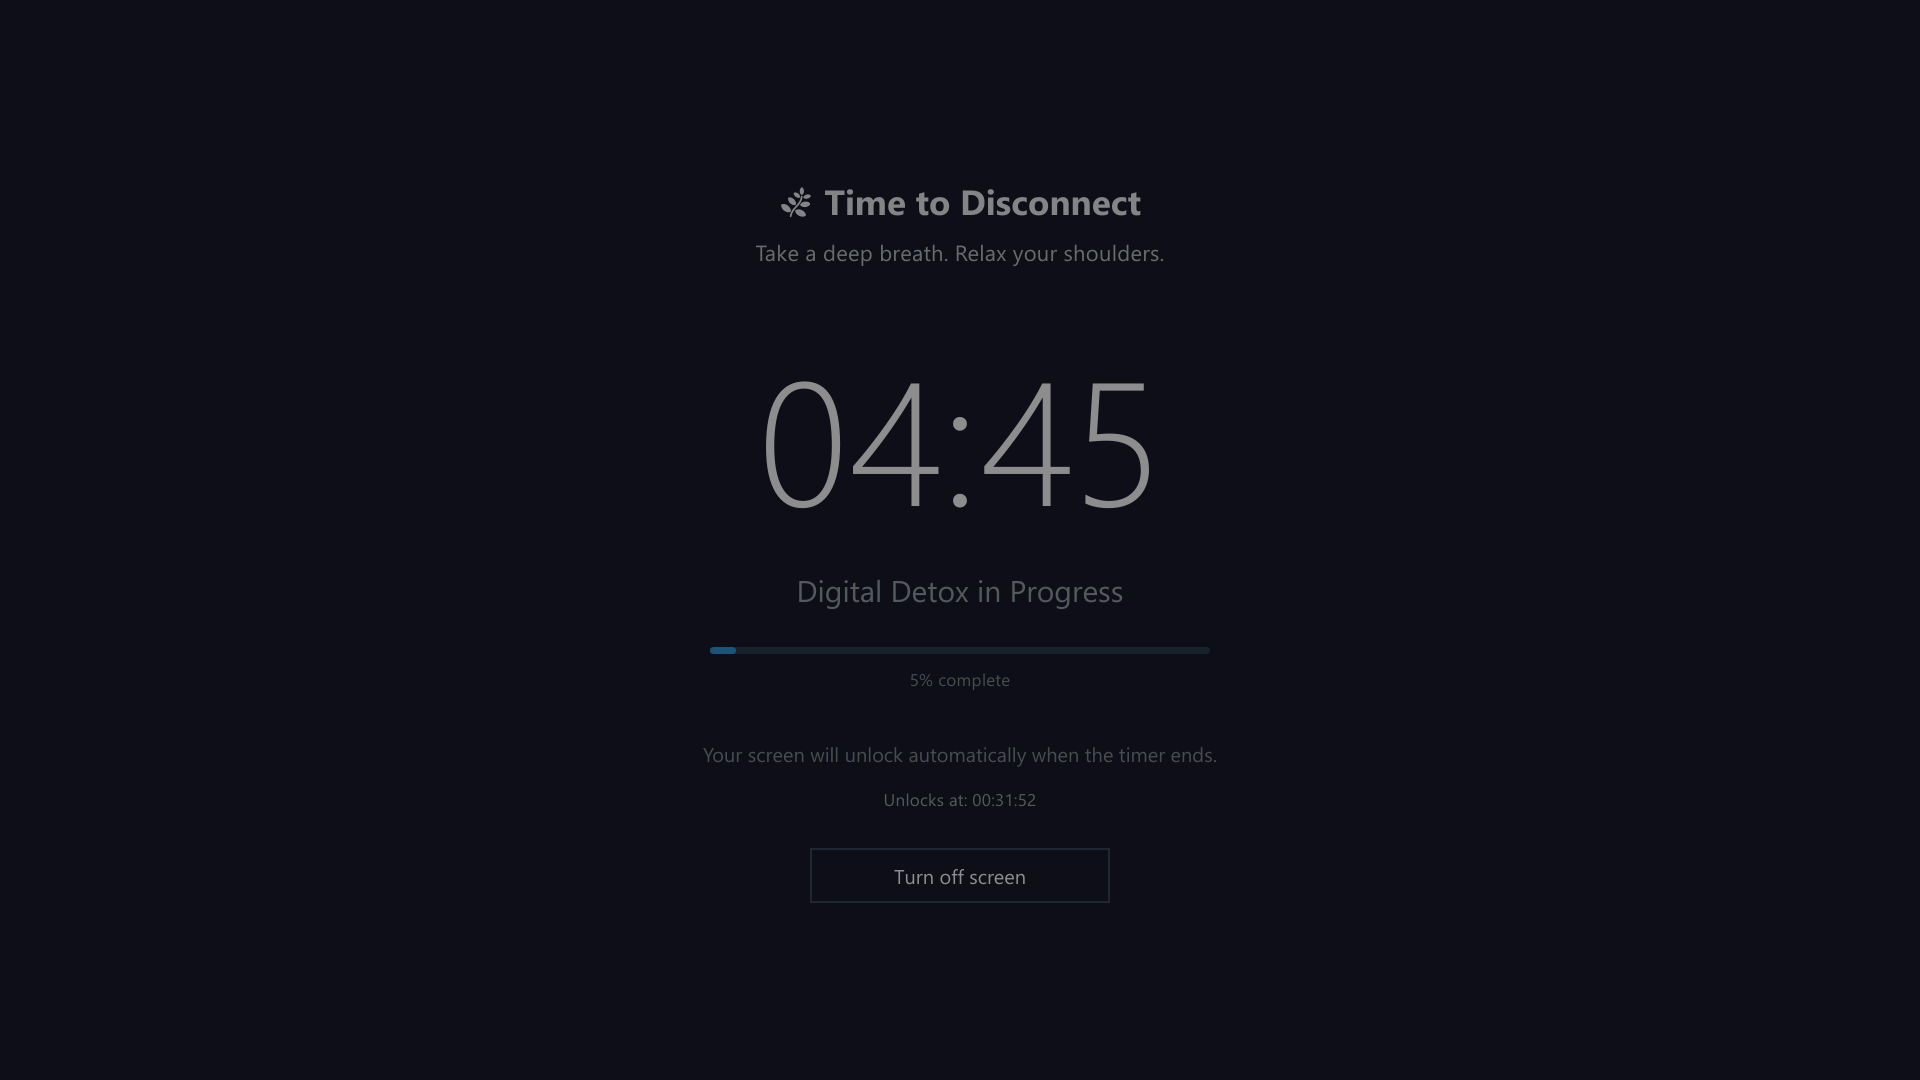
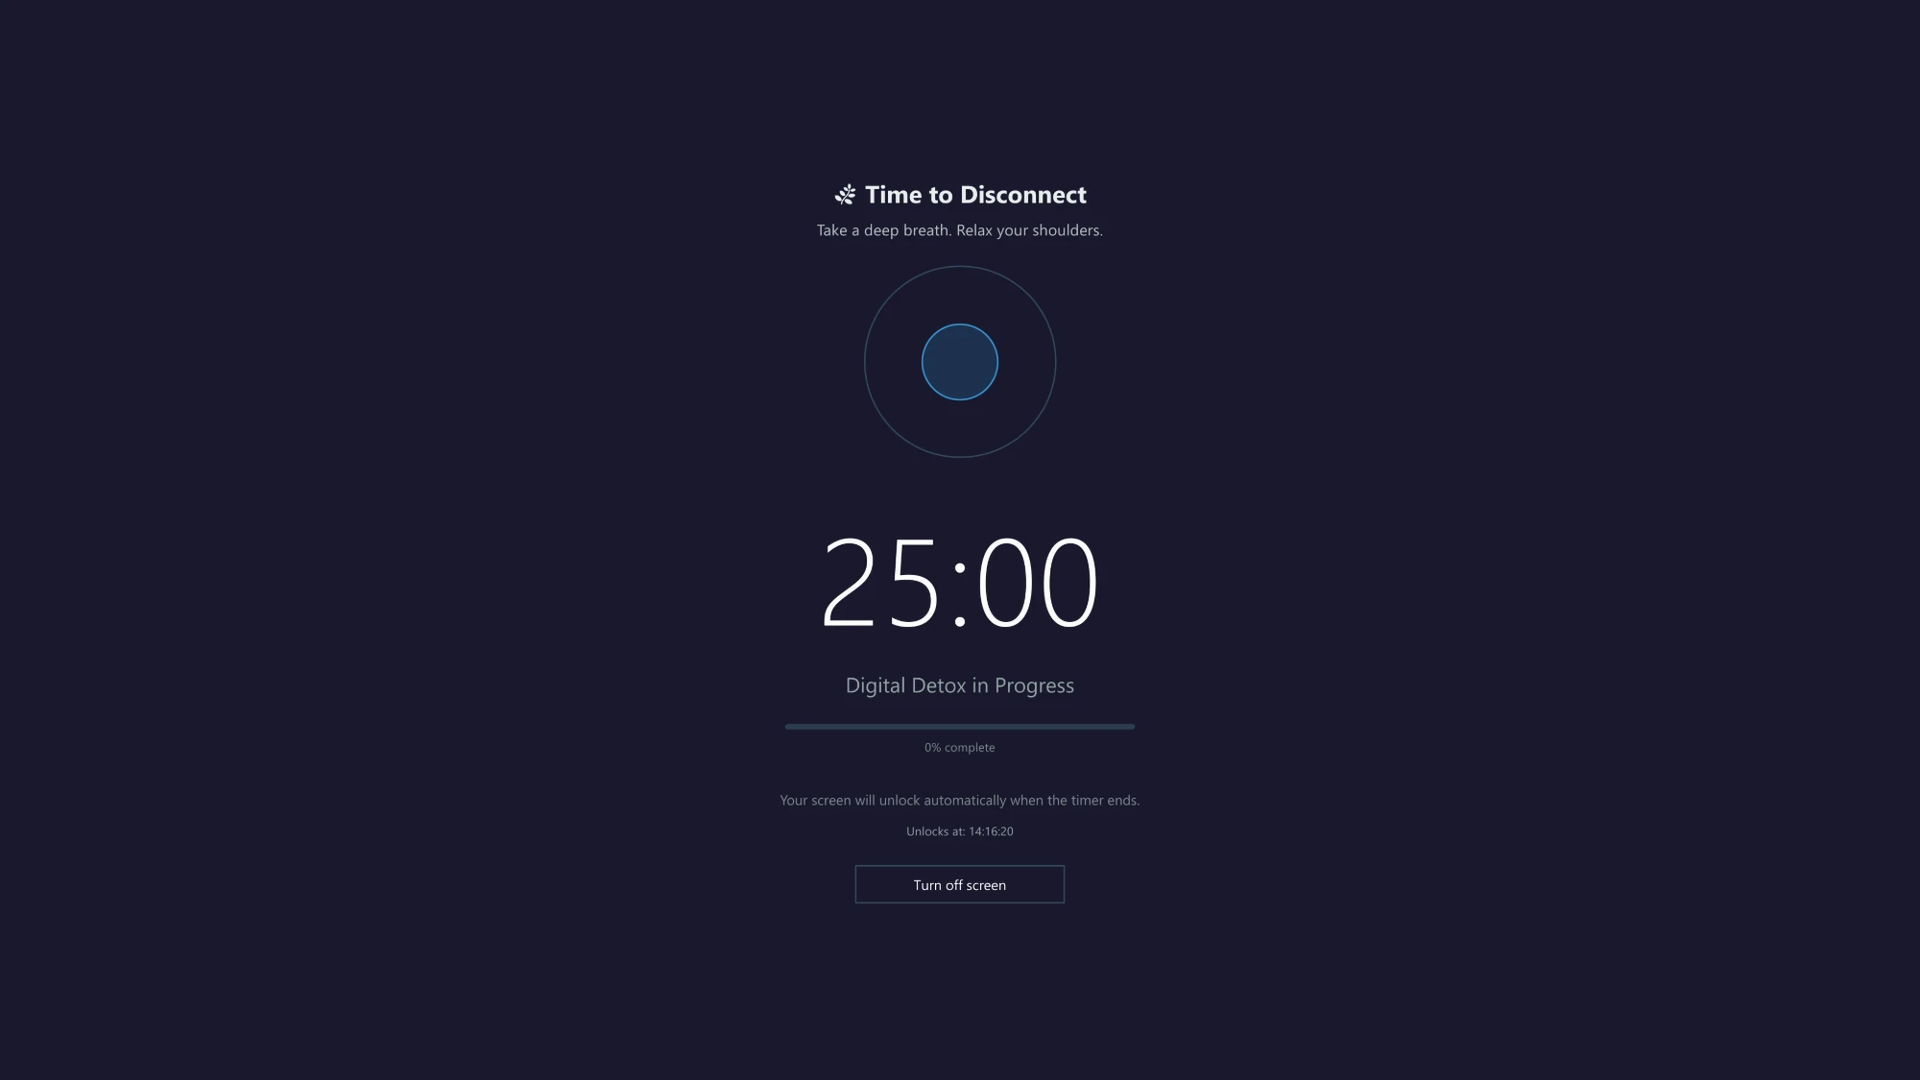
Update the screenshots and add one of the Pomodoro tab

diff --git a/README.md b/README.md
@@ -85,7 +85,19 @@ assets/      logo and icon
 2. Click **Start detox** (or press Enter)
 3. Step away from the screen; it unlocks by itself when the timer reaches zero
 
-For the Pomodoro mode, open the **Pomodoro** tab and click **Start Pomodoro**. It keeps going round after round until you click **Stop**, here or in the tray menu. **Pause** freezes the countdown until you click **Resume**.
+<br clear="right" />
+
+### Pomodoro
+
+<img src="screenshots/pomodoro.png" alt="Pomodoro tab" width="320" align="right" />
+
+Open the **Pomodoro** tab and click **Start Pomodoro**:
+
+1. Work for 25 minutes with your PC free
+2. A minute before the break, a small reminder appears in the corner so you can save your work
+3. The screen locks for a 5-minute break, then the next round starts by itself. Every 4th break lasts 15 minutes
+
+It keeps going round after round until you click **Stop**, here or in the tray menu. **Pause** freezes the countdown until you click **Resume**.
 
 <br clear="right" />
 
